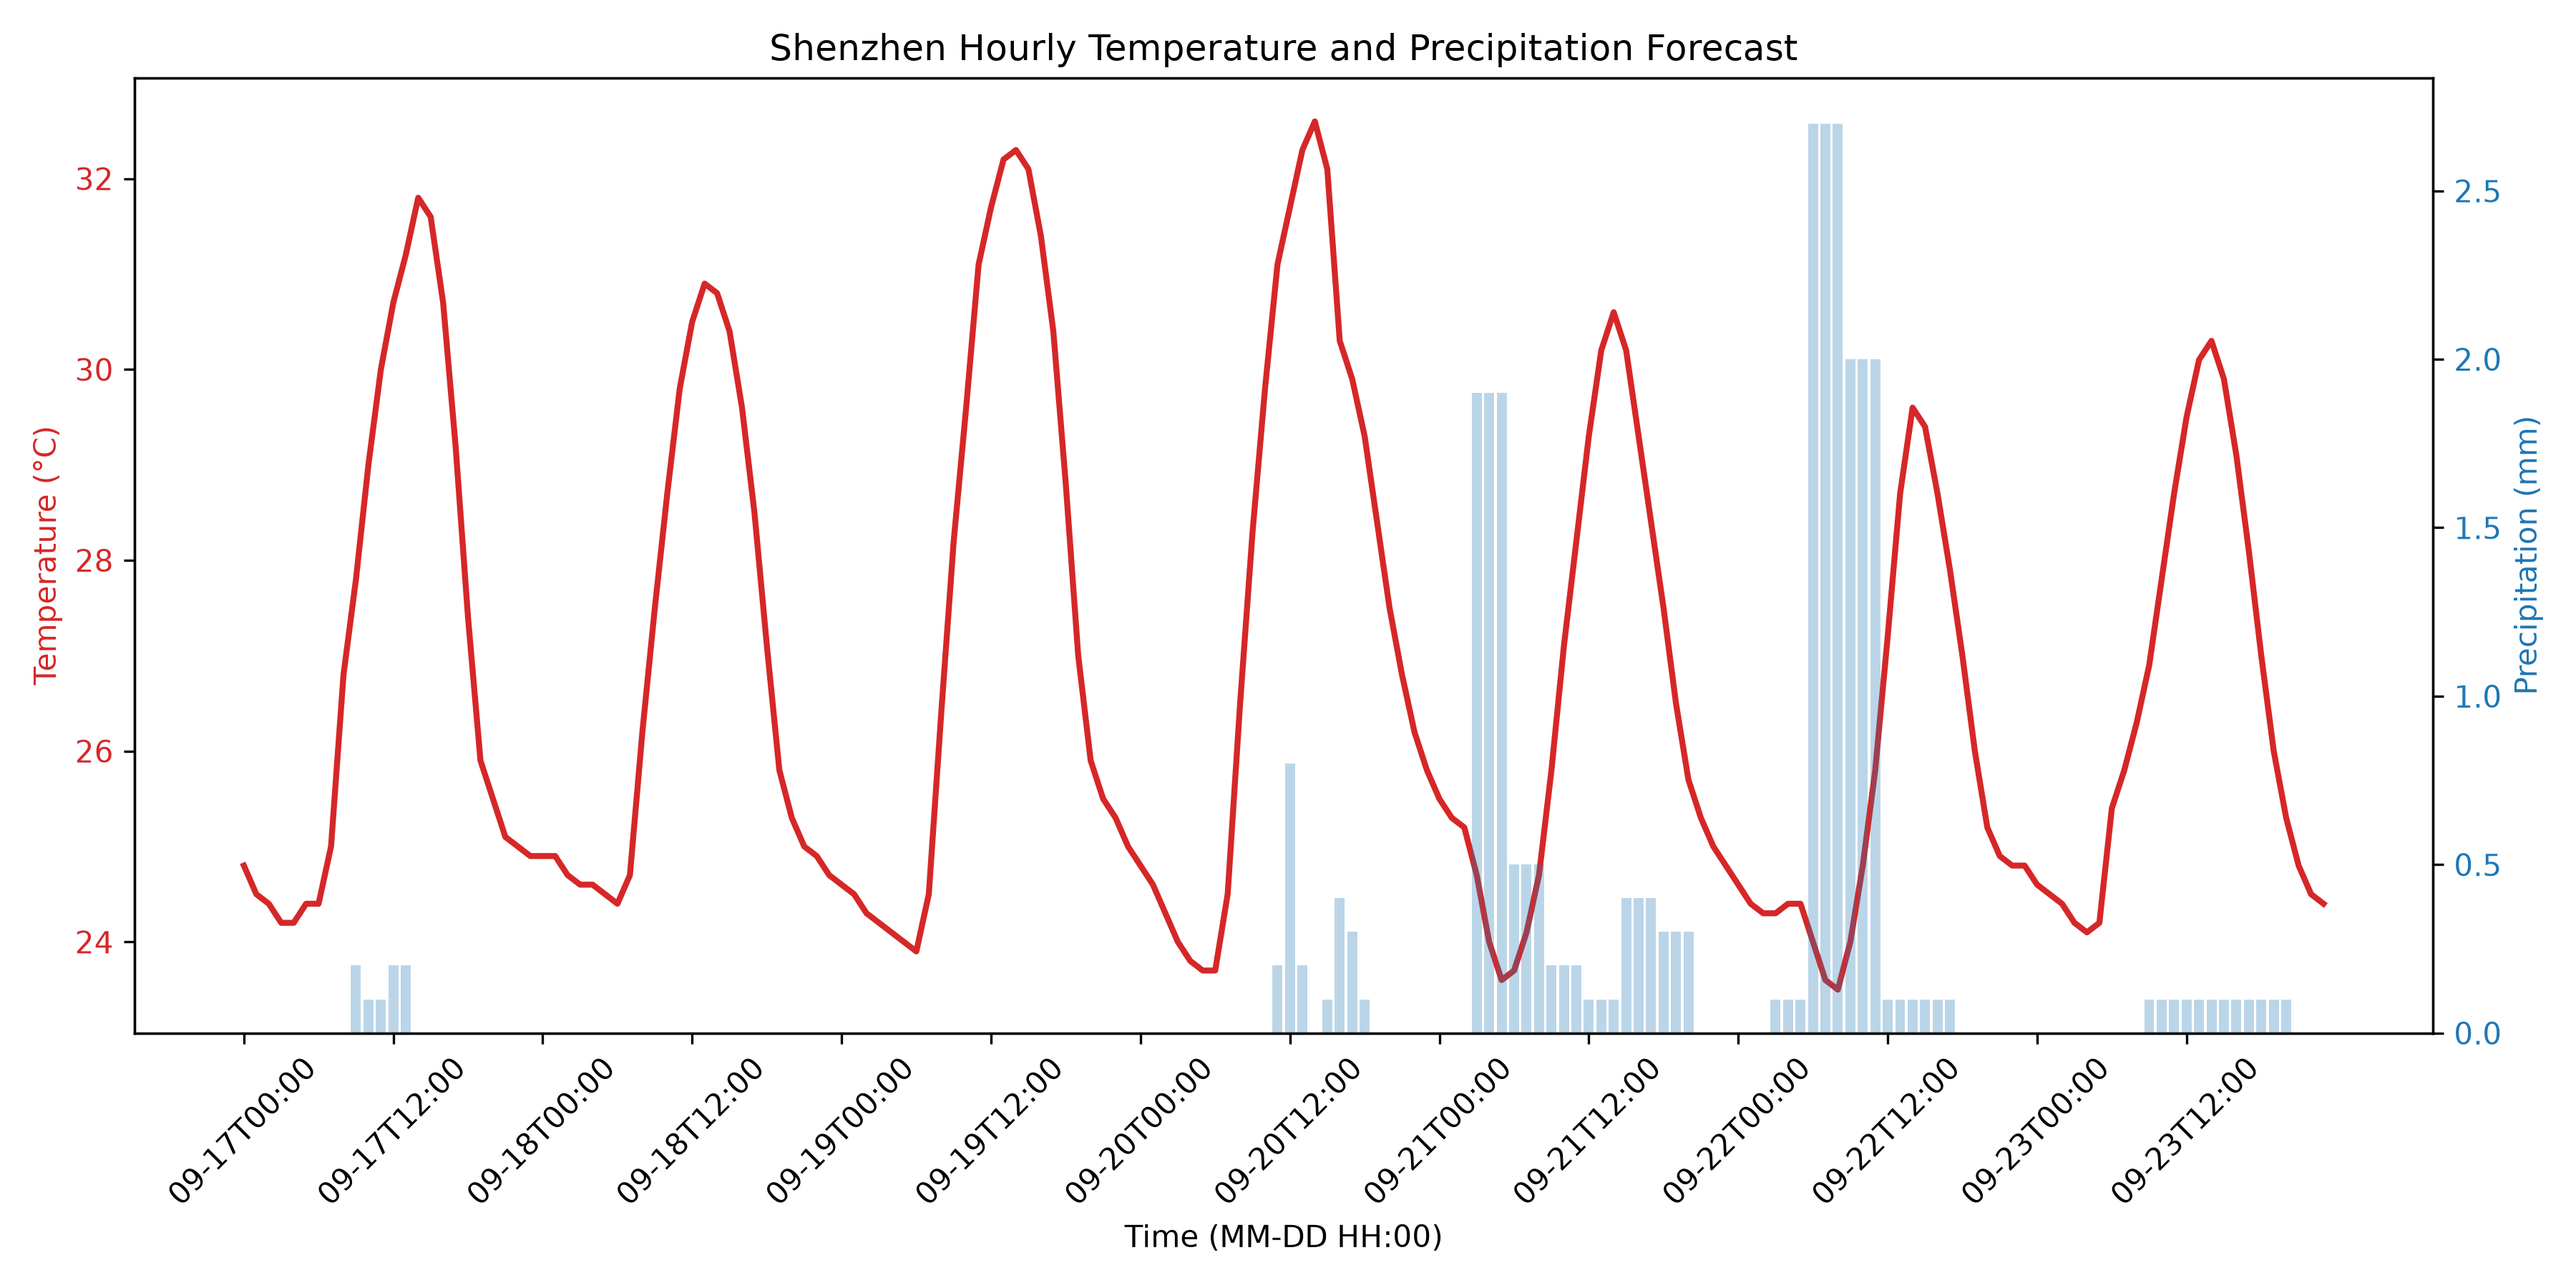
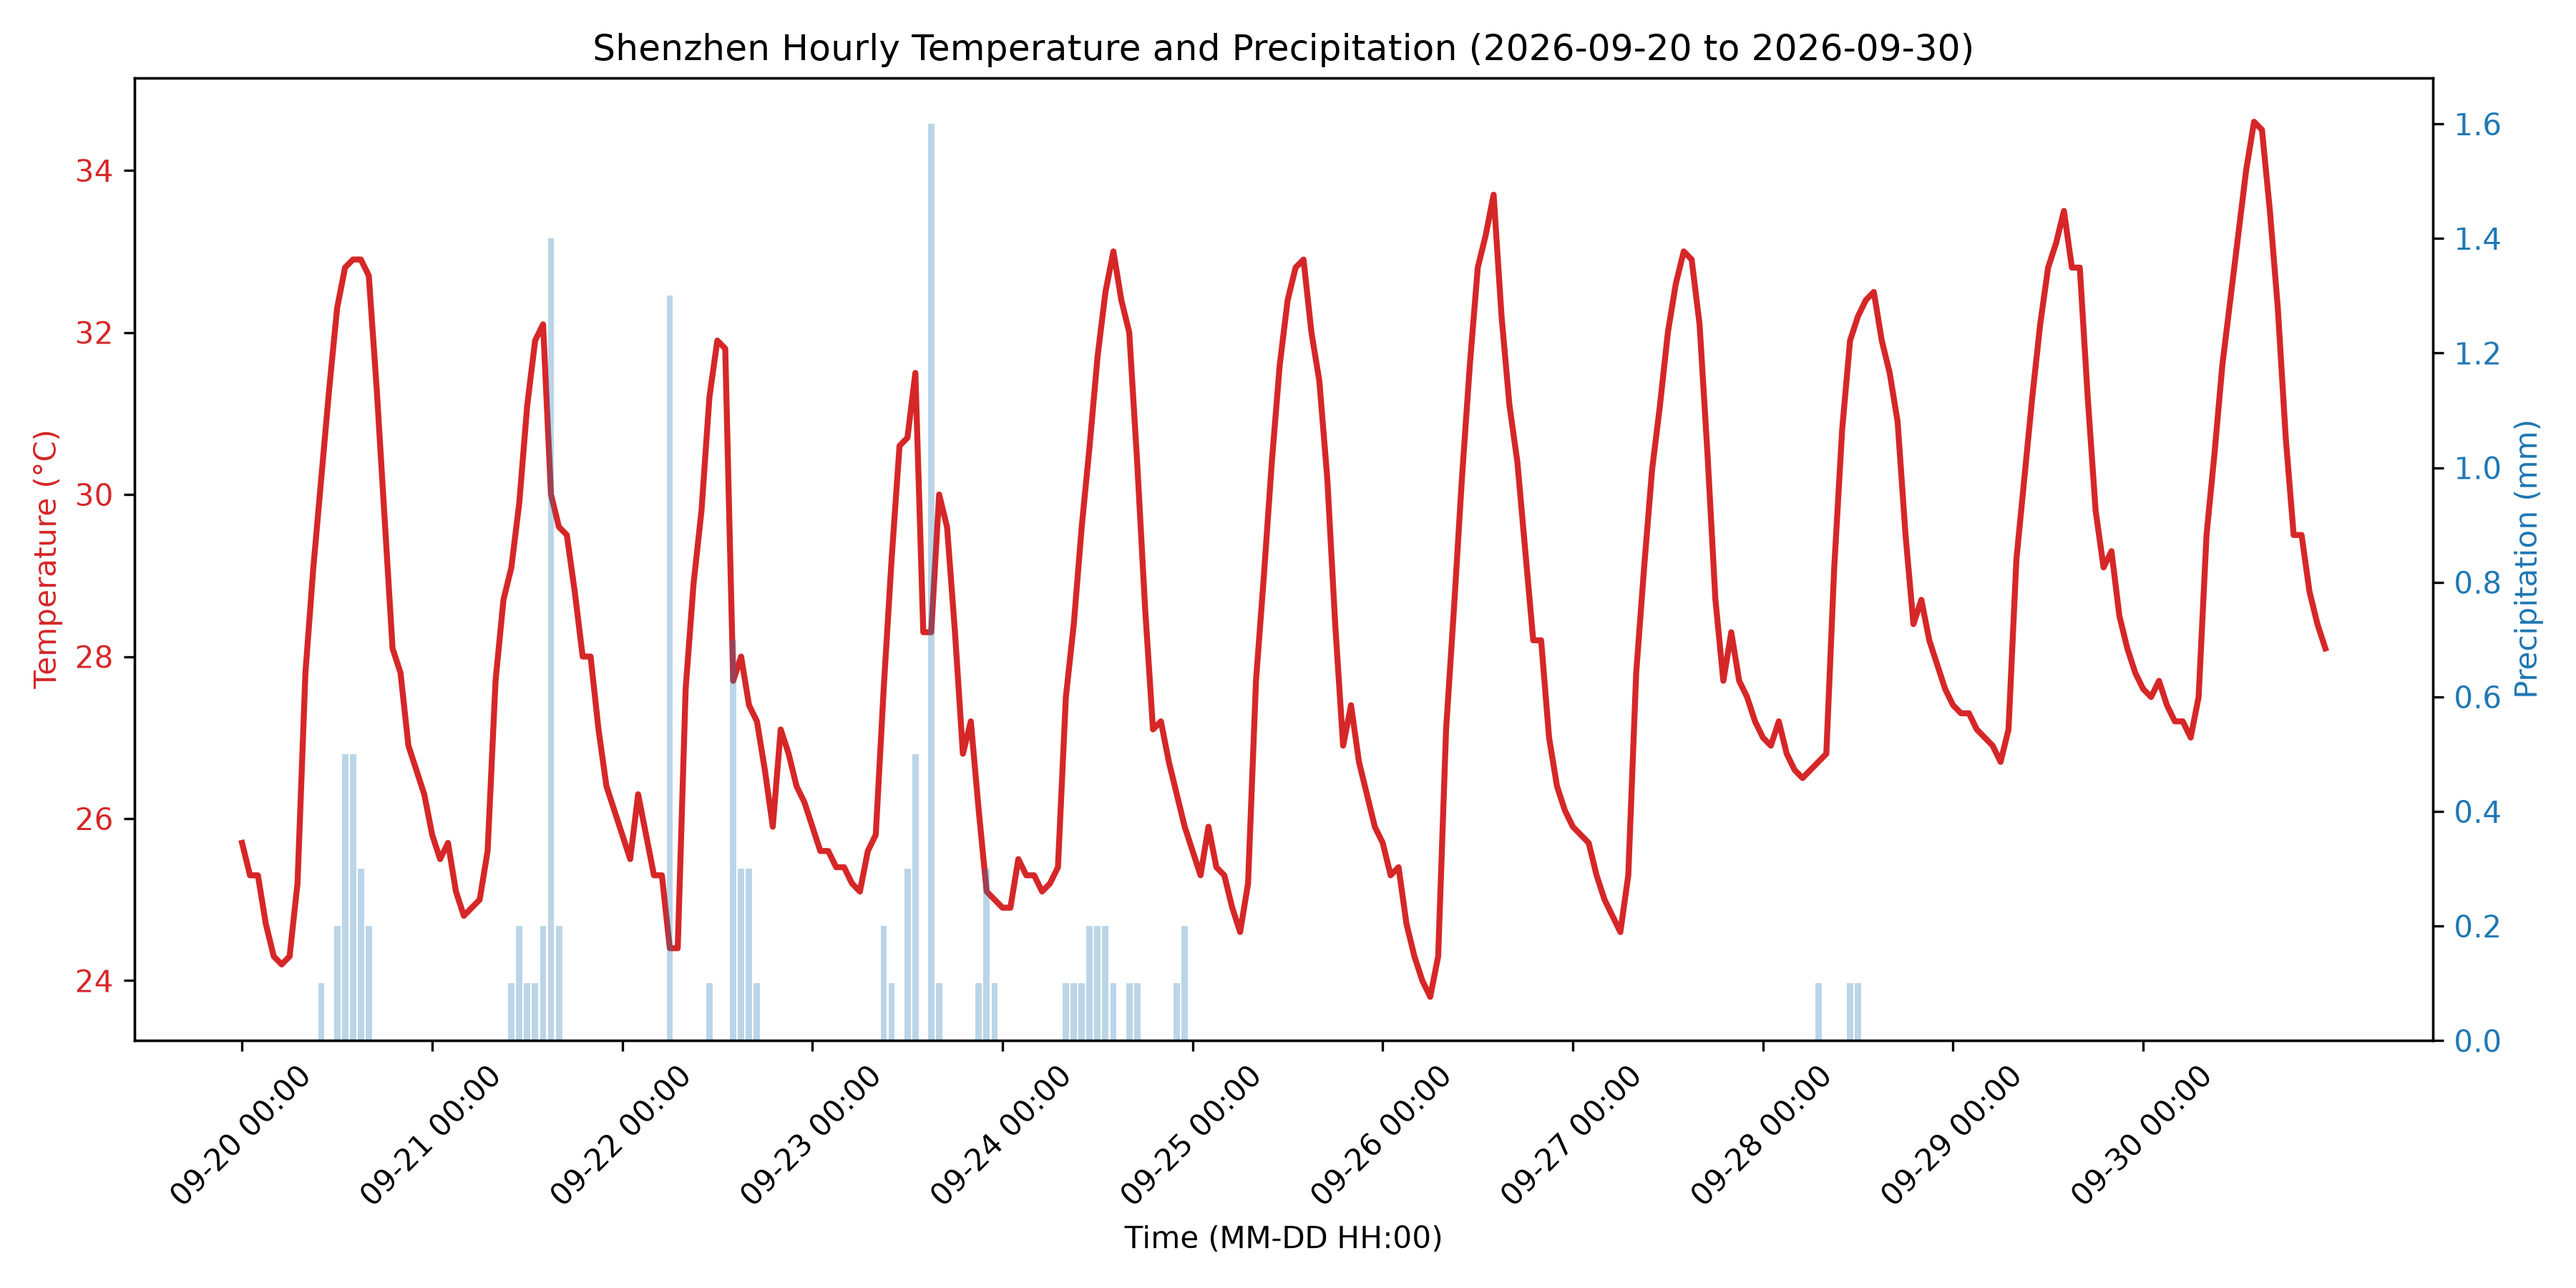
update date range to 2026-09-20 to 2026-09-30

diff --git a/plot.py b/plot.py
@@ -11,7 +11,6 @@ import matplotlib.pyplot as plt
 
 
 def process_and_plot(data_path, output_path):
-    # 1. 从本地读取 JSON 数据
     with open(data_path, "r", encoding="utf-8") as f:
         data = json.load(f)
 
@@ -20,42 +19,39 @@ def process_and_plot(data_path, output_path):
     temperatures = hourly["temperature_2m"]
     precipitations = hourly["precipitation"]
 
-    # 2. 使用循环提取并整理数据（满足作业必需有 loop 的要求）
     formatted_times = []
     filtered_temps = []
     filtered_precip = []
 
     for t, temp, p in zip(times, temperatures, precipitations):
-        # 截取时间字符串 (例如 "2026-09-17T14:00" -> "09-17 14:00")
-        formatted_times.append(t[5:])
+        # 转换时间格式，如 "2026-09-20T00:00" -> "09-20 00:00"
+        formatted_times.append(t[5:].replace("T", " "))
         filtered_temps.append(temp)
         filtered_precip.append(p)
 
-    # 3. 绘制双轴折线与柱状图
     fig, ax1 = plt.subplots(figsize=(12, 6))
 
-    # 绘制气温折线
+    # 1. 绘制温度曲线
     color = "tab:red"
     ax1.set_xlabel("Time (MM-DD HH:00)")
     ax1.set_ylabel("Temperature (°C)", color=color)
     ax1.plot(formatted_times, filtered_temps, color=color, linewidth=2, label="Temperature (°C)")
     ax1.tick_params(axis="y", labelcolor=color)
 
-    # X轴刻度稀疏化，防止挤在一起
-    ax1.set_xticks(range(0, len(formatted_times), 12))
-    ax1.set_xticklabels(formatted_times[::12], rotation=45)
+    # X轴刻度：10天共240小时，每24小时（1天）标注一次刻度，防止重叠
+    ax1.set_xticks(range(0, len(formatted_times), 24))
+    ax1.set_xticklabels(formatted_times[::24], rotation=45)
 
-    # 绘制降雨量柱状图
+    # 2. 绘制降水量柱状图
     ax2 = ax1.twinx()
     color = "tab:blue"
     ax2.set_ylabel("Precipitation (mm)", color=color)
     ax2.bar(formatted_times, filtered_precip, color=color, alpha=0.3, label="Precipitation (mm)")
     ax2.tick_params(axis="y", labelcolor=color)
 
-    plt.title("Shenzhen Hourly Temperature and Precipitation Forecast")
+    plt.title("Shenzhen Hourly Temperature and Precipitation (2026-09-20 to 2026-09-30)")
     fig.tight_layout()
 
-    # 4. 确保 out 目录存在并保存图片
     output_dir = Path(output_path).parent
     output_dir.mkdir(exist_ok=True)
     plt.savefig(output_path, dpi=300)

diff --git a/fetch.py b/fetch.py
@@ -6,22 +6,21 @@
 from pathlib import Path
 import requests
 
-# 深圳的经纬度：北纬22.5431, 东经114.0579
-API_URL = "https://api.open-meteo.com/v1/forecast?latitude=22.5431&longitude=114.0579&hourly=temperature_2m,precipitation&timezone=Asia%2FShanghai"
+# 深圳经纬度：北纬22.5431, 东经114.0579
+# 指定 start_date=2026-09-20 与 end_date=2026-09-30
+API_URL = "https://archive-api.open-meteo.com/v1/archive?latitude=22.5431&longitude=114.0579&start_date=2026-09-20&end_date=2026-09-30&hourly=temperature_2m,precipitation&timezone=Asia%2FShanghai"
 
 
 def fetch_weather_data():
-    # 确保 data 目录存在
     data_dir = Path("data")
     data_dir.mkdir(exist_ok=True)
 
     file_path = data_dir / "shenzhen_weather.json"
 
-    print("Fetching weather data for Shenzhen...")
+    print("Fetching weather data for Shenzhen (2026-09-20 to 2026-09-30)...")
     response = requests.get(API_URL)
     response.raise_for_status()
 
-    # 将原始数据保存到 data/ 文件夹
     file_path.write_text(response.text, encoding="utf-8")
     print(f"Data saved successfully to {file_path}")
 
